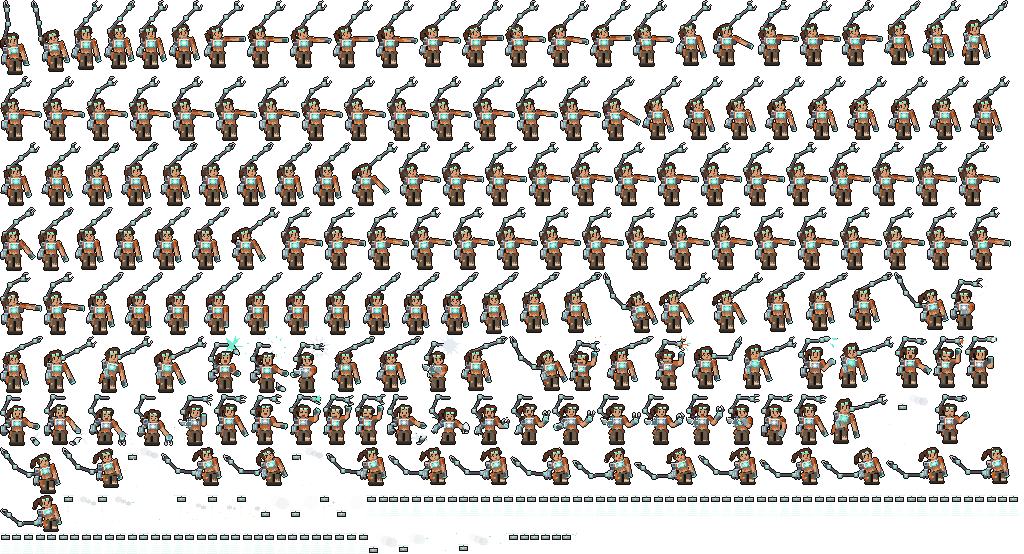
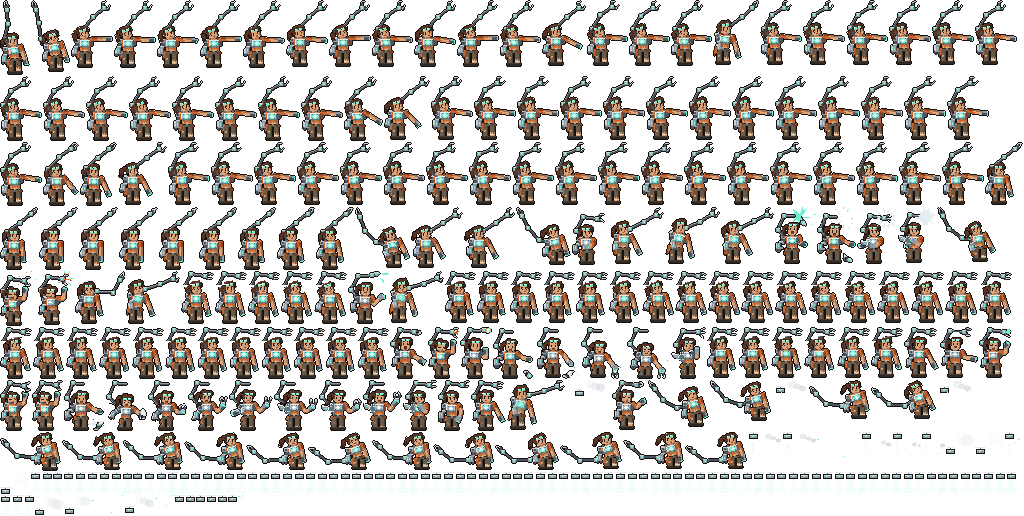
Give Tilly's hangar idle the arched third arm of the act
The rig's idle draws the arm as a straight pole, the Pixellab act as an arch.
The script now puts the arched arm into every idle frame, moved with the head,
so the idle, tolift, toidle and the end of desel show the same arm.

Claude-Session: https://claude.ai/code/session_01Rn1Tt6QxJ17sB2a88PmyKo

diff --git a/docs/design/heroes/tools/pixellab-act.py b/docs/design/heroes/tools/pixellab-act.py
@@ -32,6 +32,11 @@ PAGE_WIDTH = 1024
 PADDING = 1
 PALETTE_MIN_COUNT = 300
 PALETTE_MERGE_DISTANCE = 10
+# Rows and columns of the hangar frame (136 x 116) where Tilly's head and third arm are (checked against the rig's idle and the act).
+HEAD = (50, 72, 68, 84)  # x0, y0, x1, y1 of the part of the head the frames are matched on
+HEAD_TOP_ROW = 72
+ARM_TOP, ARM_LEFT = 40, 40
+ARM_BASE_ROWS = (60, 76)  # the arm's rows, from where the arched arm is taken down to where its stem meets the hair
 
 
 def distance(a, b):
@@ -75,6 +80,64 @@ def snap(image: Image.Image, palette: list) -> Image.Image:
     return image
 
 
+def whole_frame(sheet: Image.Image, data: dict, name: str) -> Image.Image:
+    """The frame as the whole 136 x 116 picture (the atlas stores it trimmed)."""
+    entry = data["frames"][name]
+    whole = Image.new("RGBA", (FRAME_W, FRAME_H), (0, 0, 0, 0))
+    whole.paste(untrimmed(sheet, entry), (entry["spriteSourceSize"]["x"], entry["spriteSourceSize"]["y"]))
+    return whole
+
+
+def is_metal(pixel) -> bool:
+    """The outline, the teal lights and the greys: what the third arm is drawn with (the goggles share them, so they are only cleared where the arm is)."""
+    r, g, b, a = pixel
+    if a < 128:
+        return False
+    if (r, g, b) == (23, 17, 13):
+        return True
+    if g > 200 and b > 180 and r < 150:
+        return True
+    return abs(r - g) < 30 and abs(g - b) < 30
+
+
+def head_offset(idle: Image.Image, act: Image.Image) -> tuple:
+    """How far the head of the idle frame sits from the head of the first act frame (the body bobs a little in the idle)."""
+    a, p = act.load(), idle.load()
+    best = None
+    for dy in range(-4, 5):
+        for dx in range(-4, 5):
+            same = sum(
+                1
+                for y in range(HEAD[1], HEAD[3])
+                for x in range(HEAD[0], HEAD[2])
+                if p[x, y][3] > 0 and p[x, y] == a[x - dx, y - dy]
+            )
+            if best is None or same > best[0]:
+                best = (same, dx, dy)
+    return best[1], best[2]
+
+
+def arch_arm(idle: Image.Image, act: Image.Image) -> Image.Image:
+    """The idle frame with its straight third arm replaced by the arched one of the first act frame, moved with the head."""
+    result = idle.copy()
+    px = result.load()
+    dx, dy = head_offset(idle, act)
+    for y in range(ARM_TOP, ARM_BASE_ROWS[1] + 1):
+        limit = 99 if y < HEAD_TOP_ROW else (56 if y <= 74 else 49)  # the pole stands behind the hair and the goggles
+        for x in range(ARM_LEFT, limit + 1):
+            if is_metal(px[x, y]):
+                px[x, y] = (0, 0, 0, 0)
+    arm = Image.new("RGBA", (FRAME_W, FRAME_H), (0, 0, 0, 0))
+    ap, source = arm.load(), act.load()
+    for y in range(ARM_BASE_ROWS[0], ARM_BASE_ROWS[1] + 1):
+        for x in range(36, 100):
+            keep = y < HEAD_TOP_ROW or (y == HEAD_TOP_ROW and x <= 52) or (y > HEAD_TOP_ROW and x <= 50)
+            if keep and source[x, y][3] > 0:
+                ap[x, y] = source[x, y]
+    result.alpha_composite(arm, (dx, dy))
+    return result
+
+
 def main() -> None:
     data = json.loads((ATLAS / "tilly.json").read_text())
     sheet = Image.open(ATLAS / "tilly.png").convert("RGBA")
@@ -99,6 +162,16 @@ def main() -> None:
         new_images[f"tilly.pxl.{index:03d}"] = whole
 
     act = list(new_images)
+    # The idle gets the arched third arm of the act (the rig's idle has it as a straight pole). Every animation that uses an idle frame
+    # (tolift, toidle, the end of desel) gets the arched version of it too.
+    arched = {}
+    for name in dict.fromkeys(animations["tilly.idle"]):
+        arched_name = name if name.startswith("tilly.arch.") else f"tilly.arch.{name.removeprefix('tilly.')}"
+        arched[name] = arched_name
+        picture = whole_frame(sheet, data, name)
+        new_images[arched_name] = picture if name == arched_name else arch_arm(picture, new_images[act[0]])  # a second run leaves the arched frames as they are
+    for key, names in animations.items():
+        animations[key] = [arched.get(name, name) for name in names]
     ready = animations["tilly.select"][0]  # the first frame of the ready pose: where the bridge leads to
     animations["tilly.act"] = act
     animations["tilly.tolift"] = [animations["tilly.idle"][0], act[0]]

diff --git a/docs/design/heroes/pixellab-act/README.md b/docs/design/heroes/pixellab-act/README.md
@@ -18,7 +18,8 @@ Run the script **after** `export-hangar.mjs controller` if that was run: the rig
    - B (pick up, put back): first frame the last frame of A, last frame the reference (so that the clip ends in the idle pose). Action: she freezes one beat, crouches and snatches the torn segment, looks at it, swings it up behind her back, jams it onto the stump; a clack and a spark; she breathes out and stands calm.
    - Both prompts name the arm: "Her right arm (on the left of the picture) is a grey metal robot arm: a square shoulder block and a gripper hand with a teal light. It stays metal in every frame. When she shrugs, the square shoulder block jerks up with her shoulders and the gripper swings loosely, a frame later. Her other arm is human."
 3. **Arm of the first pass.** A first pass without that sentence gave the robot arm as a human forearm in some frames. The robot-arm strip of the second pass (x 0 to 28, y 32 to 54 of every frame, without its pale yellow flash pixels) was copied into the frames of the first pass, then the remaining skin-coloured pixels of that arm (x under 30, y 31 to 57) were set to the metal greys of the hand.
-4. **Palette.** The script snaps every pixel to the 23 colours of the rig's Tilly (the colours of the atlas used at least 300 times, close shades merged) and makes the alpha binary.
+4. **Idle arm.** The rig's idle draws the third arm as a straight pole; the script replaces it with the arched arm of the first act frame (moved with the head of each idle frame), so the idle and the act show the same arm. Every animation that uses an idle frame (`tolift`, `toidle`, the end of `desel`) gets the arched frame.
+5. **Palette.** The script snaps every pixel to the 23 colours of the rig's Tilly (the colours of the atlas used at least 300 times, close shades merged) and makes the alpha binary.
 
 Credits: a 64 x 64 px call costs one generation of the trial plan.
 
